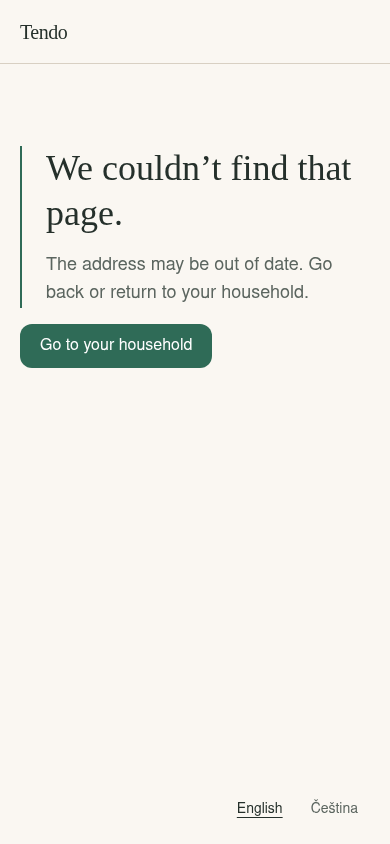
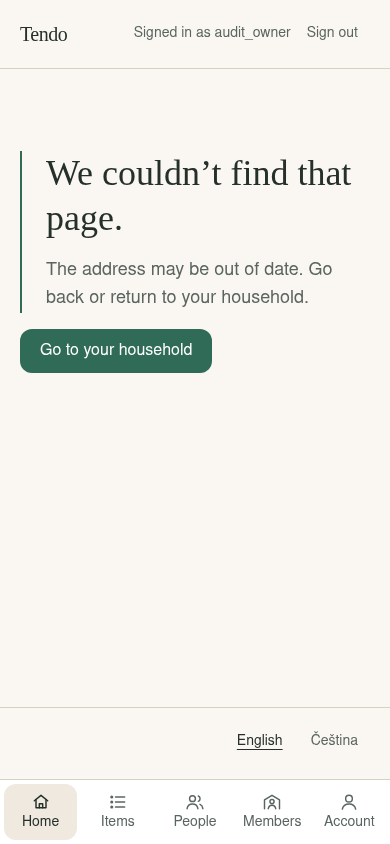
fix(v3-13): signed-in not-found shell, recovery-area captures, Czech timezone tests

diff --git a/frontend/e2e/audit/auth.ts b/frontend/e2e/audit/auth.ts
@@ -16,6 +16,36 @@ async function shot(page: Page, dir: string, name: string, capture: Capture, wid
   await capture(page, join(dir, name), false, mask);
 }
 
+/**
+ * Viewport capture of the onboarding recovery area: the error alert, the timezone select and the submit button must all be
+ * visible in the same frame. Scrolls once, asserts, then screenshots with page.screenshot so no measurement or focus reset
+ * runs between the scroll and the image.
+ */
+async function captureRecoveryArea(page: Page, path: string, timezoneLabel: string, submitLabel: string) {
+  const alert = page.getByRole('alert');
+  const timezone = page.getByLabel(timezoneLabel, { exact: true });
+  const submit = page.getByRole('button', { name: submitLabel, exact: true });
+  await alert.scrollIntoViewIfNeeded();
+  await expect(alert, 'error alert in viewport').toBeInViewport();
+  await expect(timezone, 'timezone visible in recovery frame').toBeVisible();
+  await expect(submit, 'submit visible in recovery frame').toBeVisible();
+  const bounds = await page.evaluate(() => {
+    const at = (selector: string) => {
+      const element = document.querySelector<HTMLElement>(selector);
+      return element ? element.getBoundingClientRect().bottom : Infinity;
+    };
+    return { alertBottom: at('[role="alert"]'), timezoneBottom: at('#onboarding-timezone'), submitBottom: at('button[type="submit"]') };
+  });
+  const viewportHeight = page.viewportSize()?.height ?? 0;
+  for (const [name, bottom] of Object.entries(bounds)) {
+    expect(bottom, `${name} starts inside the captured viewport`).toBeLessThan(viewportHeight);
+    expect(bottom, `${name} has a finite position`).toBeGreaterThan(0);
+  }
+  await expect(timezone, 'timezone in viewport').toBeInViewport();
+  await expect(submit, 'submit in viewport').toBeInViewport();
+  await page.screenshot({ path, fullPage: false });
+}
+
 async function setLocale(page: Page, locale: 'en' | 'cs') {
   await page.evaluate((value) => localStorage.setItem('tendo.locale', value), locale);
   await page.reload();
@@ -58,10 +88,7 @@ export async function captureAuth(page: Page, browser: Browser, dir: string, cap
   await expect(validationPage.getByRole('alert')).toBeVisible();
   await expectNoAxeViolations(validationPage, 'auth-onboarding-validation');
   await capture(validationPage, join(dir, 'auth-onboarding-validation-en-390.png'), true);
-  await validationPage.evaluate(() => window.scrollTo(0, document.documentElement.scrollHeight));
-  await expect(validationPage.getByLabel(en['onboarding.timezone'], { exact: true })).toBeInViewport();
-  await expect(validationPage.getByRole('button', { name: en['onboarding.submit'], exact: true })).toBeInViewport();
-  await capture(validationPage, join(dir, 'auth-onboarding-validation-area-en-390.png'), false);
+  await captureRecoveryArea(validationPage, join(dir, 'auth-onboarding-validation-area-en-390.png'), en['onboarding.timezone'], en['onboarding.submit']);
   await validationContext.close();
 
   const setupErrorContext = await browser.newContext({ reducedMotion: 'reduce', viewport: { width: 390, height: 844 } });
@@ -78,11 +105,7 @@ export async function captureAuth(page: Page, browser: Browser, dir: string, cap
   await setupError.getByRole('button', { name: en['onboarding.submit'], exact: true }).click();
   await expect(setupError.getByRole('alert')).toBeVisible();
   await capture(setupError, join(dir, 'auth-onboarding-server-error-en-390.png'), true);
-  await setupError.evaluate(() => window.scrollTo(0, 0));
-  await expect(setupError.getByRole('alert')).toBeVisible();
-  await expect(setupError.getByLabel(en['onboarding.timezone'], { exact: true })).toBeVisible();
-  await expect(setupError.getByRole('button', { name: en['onboarding.submit'], exact: true })).toBeVisible();
-  await capture(setupError, join(dir, 'auth-onboarding-server-error-area-en-390.png'), true);
+  await captureRecoveryArea(setupError, join(dir, 'auth-onboarding-server-error-area-en-390.png'), en['onboarding.timezone'], en['onboarding.submit']);
   await setupErrorContext.close();
 
   for (const width of widths) {

diff --git a/frontend/src/app/SignedInApp.tsx b/frontend/src/app/SignedInApp.tsx
@@ -12,6 +12,7 @@ import { ScreenTransitionContext } from './Heading';
 import { Layout } from './Layout';
 import { NotFoundScreen } from './StatusScreens';
 import { SignOutContext } from './SignOutContext';
+import { AccountActions } from './AccountActions';
 import { HouseholdNavigationContext, type NavigationActions } from './HouseholdNavigation';
 import { householdNavRoute, type Route } from './routes';
 import type { Session } from '../features/auth/sessionApi';
@@ -40,8 +41,22 @@ export function SignedInApp(props: Props) {
     account: navigation.openAccount,
   };
   if (route.kind === 'invite') return renderInvite(props);
-  if (route.kind === 'notFound') return <ScreenTransitionContext value={props.transitioned}><Layout><NotFoundScreen /></Layout></ScreenTransitionContext>;
+  if (route.kind === 'notFound') return renderNotFound(props, householdId ?? null, navigationActions);
   return renderHouseholdScreens(props, householdId ?? null, navRoute, navigationActions);
+}
+
+/** Unknown pages keep the signed-in shell (account actions and navigation); Home is the nearest destination. */
+function renderNotFound(props: Props, householdId: string | null, navigationActions: NavigationActions) {
+  const { session, sessionActions } = props;
+  return <SignOutContext value={sessionActions.signedOut}>
+    <HouseholdNavigationContext value={{ route: 'home', actions: navigationActions, household: Boolean(householdId) }}>
+      <ScreenTransitionContext value={props.transitioned}>
+        <Layout actions={<AccountActions login={session.login} onSignedOut={sessionActions.sessionEnded} />}>
+          <NotFoundScreen />
+        </Layout>
+      </ScreenTransitionContext>
+    </HouseholdNavigationContext>
+  </SignOutContext>;
 }
 
 function renderInvite(props: Props) {

diff --git a/frontend/src/features/auth/Oidc.test.tsx b/frontend/src/features/auth/Oidc.test.tsx
@@ -246,9 +246,13 @@ describe('sign in with the configured provider', () => {
 });
 
 describe('callback results', () => {
+  it('keeps the cancelled dictionary entry equal to the approved copy', () => {
+    expect(en['oidc.error.cancelled']).toBe('Sign-in was cancelled. You can try again or use your password.');
+  });
+
   it.each([
     ['identity_not_linked', 'This sign-in isn’t connected to a Tendo account yet. Sign in with your password, then connect it from Account.'],
-    ['cancelled', en['oidc.error.cancelled']],
+    ['cancelled', 'Sign-in was cancelled. You can try again or use your password.'],
     ['session_changed', 'You signed in or out in another tab while this was in progress. Please start again.'],
     ['<script>', 'Something went wrong with that sign-in. Please try again.'],
   ])('/login#oidcError=%s shows a calm notice and scrubs the fragment', async (code, message) => {

diff --git a/frontend/src/features/auth/onboardingModel.test.ts b/frontend/src/features/auth/onboardingModel.test.ts
@@ -44,8 +44,12 @@ describe('onboarding model', () => {
 
   it('shows a readable time-zone label without changing its submitted IANA value', () => {
     expect(formatTimezoneLabel('America/New_York', 'en')).toMatch(/^New York · /);
-    expect(formatTimezoneLabel('Europe/Prague', 'cs-CZ')).toMatch(/^Prague · /);
     expect(formatTimezoneLabel('UTC', 'en')).toMatch(/^UTC/);
+  });
+
+  it('uses the Czech locale the component passes for both the option and hint labels', () => {
+    // OnboardingScreen passes the i18n locale ('cs') unchanged to both the option and hint formatters.
+    expect(formatTimezoneLabel('Europe/Prague', 'cs')).toBe('Prague · středoevropský čas');
   });
 
   it('deduplicates and sorts supported zones while including UTC and the detected zone', () => {

diff --git a/frontend/src/features/auth/OnboardingScreen.tsx b/frontend/src/features/auth/OnboardingScreen.tsx
@@ -191,7 +191,7 @@ function SetupFields({ form, target, locale }: {
           onChange={form.setTimezone}
           invalid={target === 'timezone'}
           zones={form.zones}
-          locale={locale === 'cs' ? 'cs-CZ' : 'en'}
+          locale={locale}
         />
       </div>
     </>
@@ -210,7 +210,7 @@ export function OnboardingScreen({
   const target = form.error ? errorTarget(form.error) : null;
 
   return (
-    <section className="settle mx-auto w-full max-w-5xl">
+    <section className="settle w-full max-w-5xl">
       <OnboardingIntroduction />
       <form onSubmit={form.submit} className="mt-8 grid gap-x-8 gap-y-6 sm:grid-cols-2" noValidate>
         <SetupFields form={form} target={target} locale={locale} />

diff --git a/frontend/src/app/App.routing.test.tsx b/frontend/src/app/App.routing.test.tsx
@@ -133,7 +133,9 @@ describe('App route characterization', () => {
     renderApp();
     expect(await screen.findByRole('heading', { level: 1, name: 'We couldn’t find that page.' })).toBeVisible();
     expect(screen.getByRole('link', { name: 'Go to your household' })).toHaveAttribute('href', '/');
-    expect(screen.queryByRole('navigation', { name: 'Household navigation' })).not.toBeInTheDocument();
+    expect(screen.getByRole('navigation', { name: 'Household navigation' })).toBeInTheDocument();
+    expect(screen.getByText('Signed in as anna')).toBeVisible();
+    expect(screen.getByRole('button', { name: 'Sign out' })).toBeEnabled();
     expect(window.location.pathname).toBe('/unknown');
   });
 

diff --git a/frontend/src/features/auth/OnboardingScreen.test.tsx b/frontend/src/features/auth/OnboardingScreen.test.tsx
@@ -52,7 +52,8 @@ describe('onboarding', () => {
     stubTimezone('Europe/Prague');
     installFakeServer(setupRequired);
     renderApp();
-    expect(await screen.findByText((_, element) => element?.tagName.toLowerCase() === 'p' && element.textContent?.startsWith('Použije se pro data v domácnosti: Prague · ') === true)).toBeVisible();
+    expect(await screen.findByText('Použije se pro data v domácnosti: Prague · středoevropský čas', { exact: true })).toBeVisible();
+    expect(screen.getByRole('option', { name: 'Prague · středoevropský čas' })).toHaveValue('Europe/Prague');
     expect(screen.queryByText(/Used for dates in your household:/)).not.toBeInTheDocument();
   });
 

diff --git a/docs/design/v3-auth.md b/docs/design/v3-auth.md
@@ -27,7 +27,11 @@ Before evidence was regenerated from the detached `a9159e3` worktree; after evid
 
 ## Evidence
 
-Curated production-build before/after screenshots and honest per-state critique are indexed in [v3-auth/CAPTURES.md](v3-auth/CAPTURES.md). The opt-in production audit completed with `E2E_EXIT=0` and wrote 41 `auth-*.png` captures plus the wider audit metrics under `/tmp/opencode/v313-auth-after-followup`; changed captures are curated in the docs directory. The follow-up command was `source ~/.config/tendo-test/env && TENDO_UX_AUDIT_DIR=/tmp/opencode/v313-auth-after-followup bash scripts/dev-exec.sh -- bash scripts/e2e-smoke.sh`; log: `/tmp/opencode/v313-auth-logs/followup-e2e.log`. The baseline production audit completed at detached `a9159e3`; its curated auth captures are under `v3-auth/before/`. The requested follow-up full production smoke (including UX audit) ran with `source ~/.config/tendo-test/env && TENDO_UX_AUDIT_DIR=/tmp/opencode/v313-auth-after-followup bash scripts/dev-exec.sh -- bash scripts/e2e-smoke.sh`; log: `/tmp/opencode/v313-auth-logs/followup-e2e.log`, `E2E_EXIT=0`. This includes the serial journey, browser primitives, screen-reader project, and UX audit. Lint, typecheck, and Vitest also passed.
+Curated production-build before/after screenshots and honest per-state critique are indexed in [v3-auth/CAPTURES.md](v3-auth/CAPTURES.md). The round-2 evidence run was made on top of commit `97326af` (working tree adds the not-found shell, recovery-area capture, and onboarding alignment changes); its serialized full smoke, including the UX audit, logged to `/tmp/opencode/v313-auth-logs/round2-e2e.log` with `E2E_EXIT=0`.
+
+**Why the UX audit timeout is 3600s.** The opt-in `ux-audit` Playwright project previously stopped at 1800s, before its auth-state captures ran. The native runner now allows 3600s for that project only; the required journey and screen-reader CI runs keep their own limits.
+
+**Why the sign-in panel is narrow at 1440.** The task is a two-field credential entry, so the measure, not the viewport, should set the width. A 28rem centered panel keeps the username, password and single primary action in one scan line and avoids the earlier split-column form, which read as an accident. The first critique asked for a calmer desktop composition than the old 48rem card; this is the intended answer, and it does not repeat the before state's bare narrow form placed high on an empty page, because the intro and panel are now centered with a deliberate top offset. The opt-in production audit completed with `E2E_EXIT=0` and wrote 41 `auth-*.png` captures plus the wider audit metrics under `/tmp/opencode/v313-auth-after-followup`; changed captures are curated in the docs directory. The follow-up command was `source ~/.config/tendo-test/env && TENDO_UX_AUDIT_DIR=/tmp/opencode/v313-auth-after-followup bash scripts/dev-exec.sh -- bash scripts/e2e-smoke.sh`; log: `/tmp/opencode/v313-auth-logs/followup-e2e.log`. The baseline production audit completed at detached `a9159e3`; its curated auth captures are under `v3-auth/before/`. The requested follow-up full production smoke (including UX audit) ran with `source ~/.config/tendo-test/env && TENDO_UX_AUDIT_DIR=/tmp/opencode/v313-auth-after-followup bash scripts/dev-exec.sh -- bash scripts/e2e-smoke.sh`; log: `/tmp/opencode/v313-auth-logs/followup-e2e.log`, `E2E_EXIT=0`. This includes the serial journey, browser primitives, screen-reader project, and UX audit. Lint, typecheck, and Vitest also passed.
 
 ## Not done here
 

diff --git a/docs/design/v3-auth/CAPTURES.md b/docs/design/v3-auth/CAPTURES.md
@@ -24,7 +24,7 @@ The prior exact commit is `a9159e3`; before captures were regenerated from detac
 | File(s) | Route/state | Size, locale | Critique |
 |---|---|---|---|
 | `after/auth-onboarding-en-{320,390,768,1024,1440}.png` | First run | 320–1440/en | Consistent sections and field labels clarify order. The form is intentionally taller than the phone viewport and continues below the fold; at 1440px, two-column fields use more measure without over-wide controls. |
-| `after/auth-onboarding-cs-{390,1440}.png` | First run | 390/1440/cs | Czech copy wraps naturally; the human-readable timezone proposal still retains IANA value under the select. |
+| `after/auth-onboarding-cs-{390,1440}.png` | First run | 390/1440/cs | Czech copy wraps naturally. The readable timezone label is shown in the select and hint; the underlying IANA identifier is the submitted value and is not displayed. |
 | `after/auth-onboarding-validation-en-390.png`, `after/auth-onboarding-validation-area-en-390.png`, `after/auth-onboarding-server-error-en-390.png`, `after/auth-onboarding-server-error-area-en-390.png` | Validation and service error | 390/en | Full-page captures preserve form context. The companion recovery view includes the error, timezone and submit action together. Validation marks only the target field; setup code remains masked. |
 | `after/auth-login-en-{320,390,768,1024,1440}.png`, `after/auth-login-cs-{390,1440}.png` | Sign-in default | requested widths/locale | A single-column 28rem panel keeps the two credentials and full-width actions in a clear sequence. It is centered with the intro and a measured top offset at desktop; broad margins remain intentional, not an empty second column. |
 | `after/auth-login-error-en-{320,390,768,1024,1440}.png` | Wrong credentials | requested widths/en | One shared alert explains recovery without marking either credential invalid. Long recovery guidance makes the 320px panel vertically dense. |
